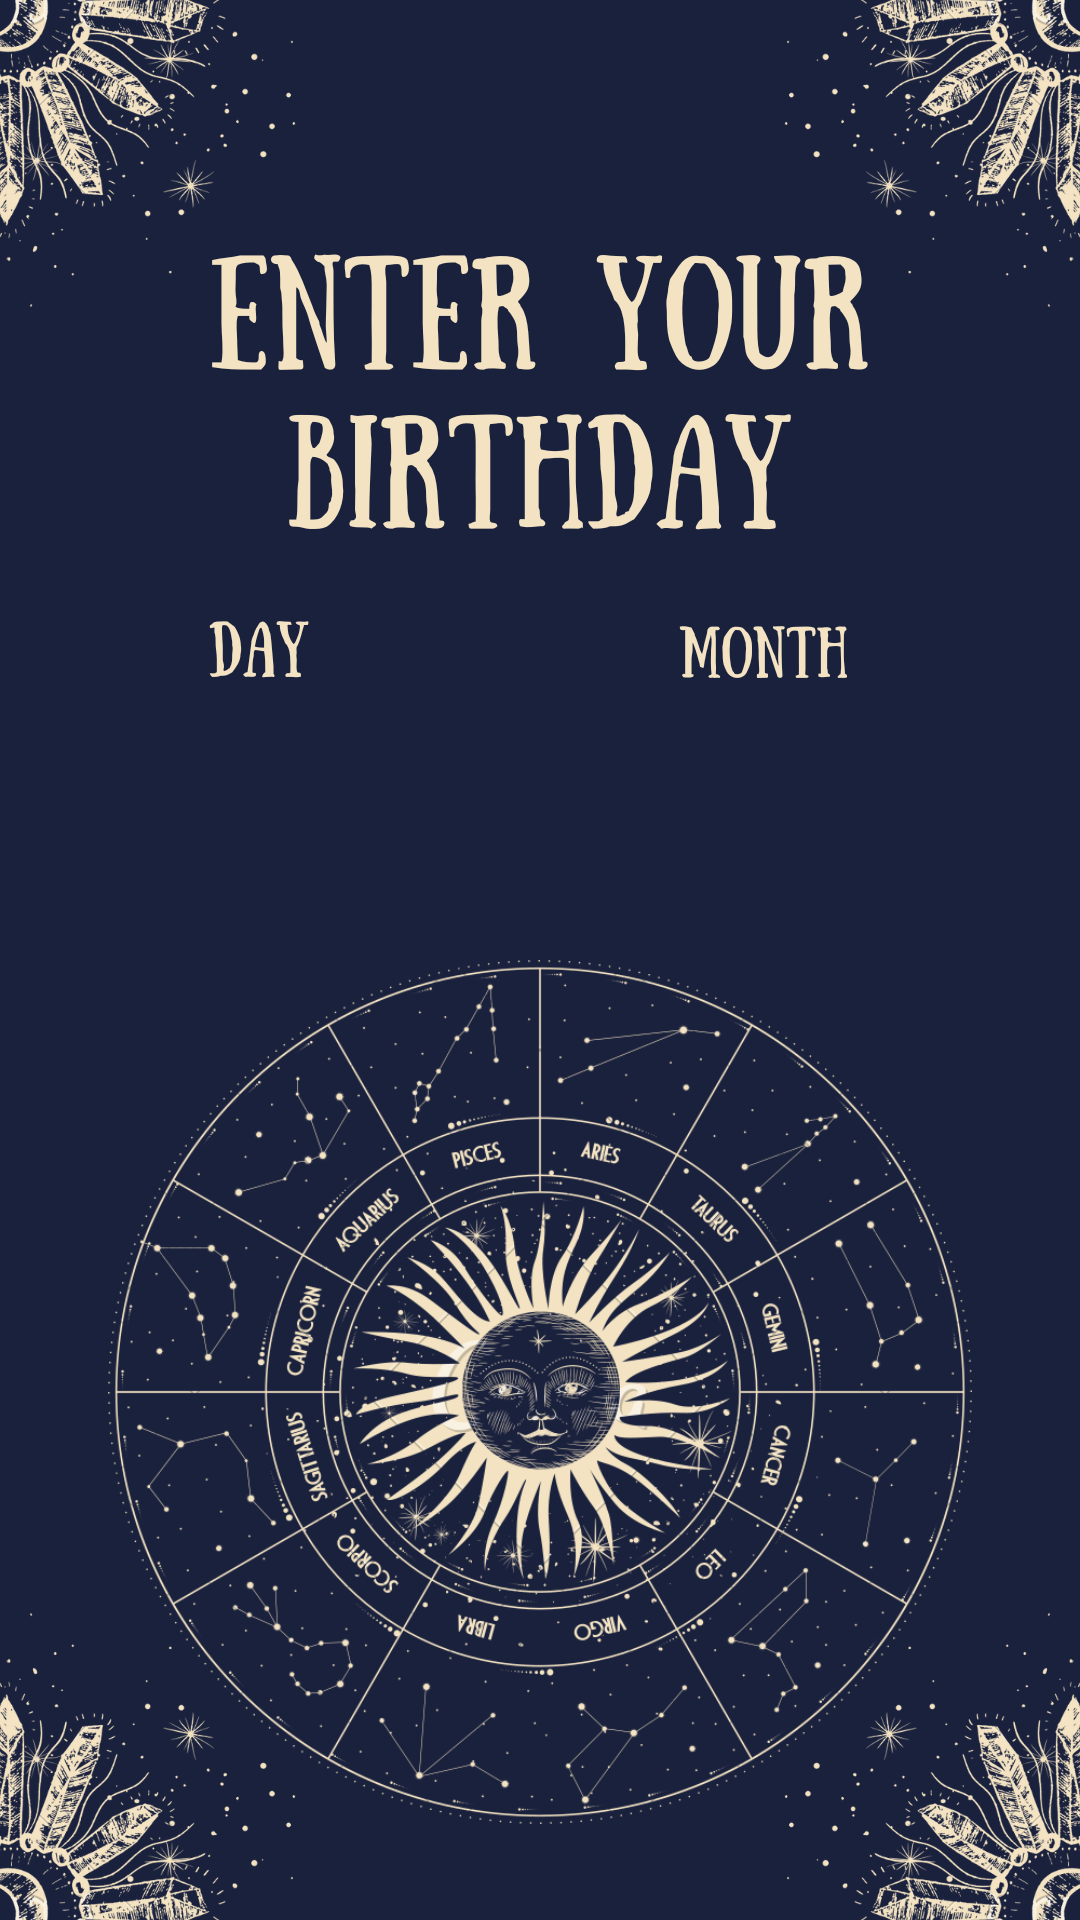
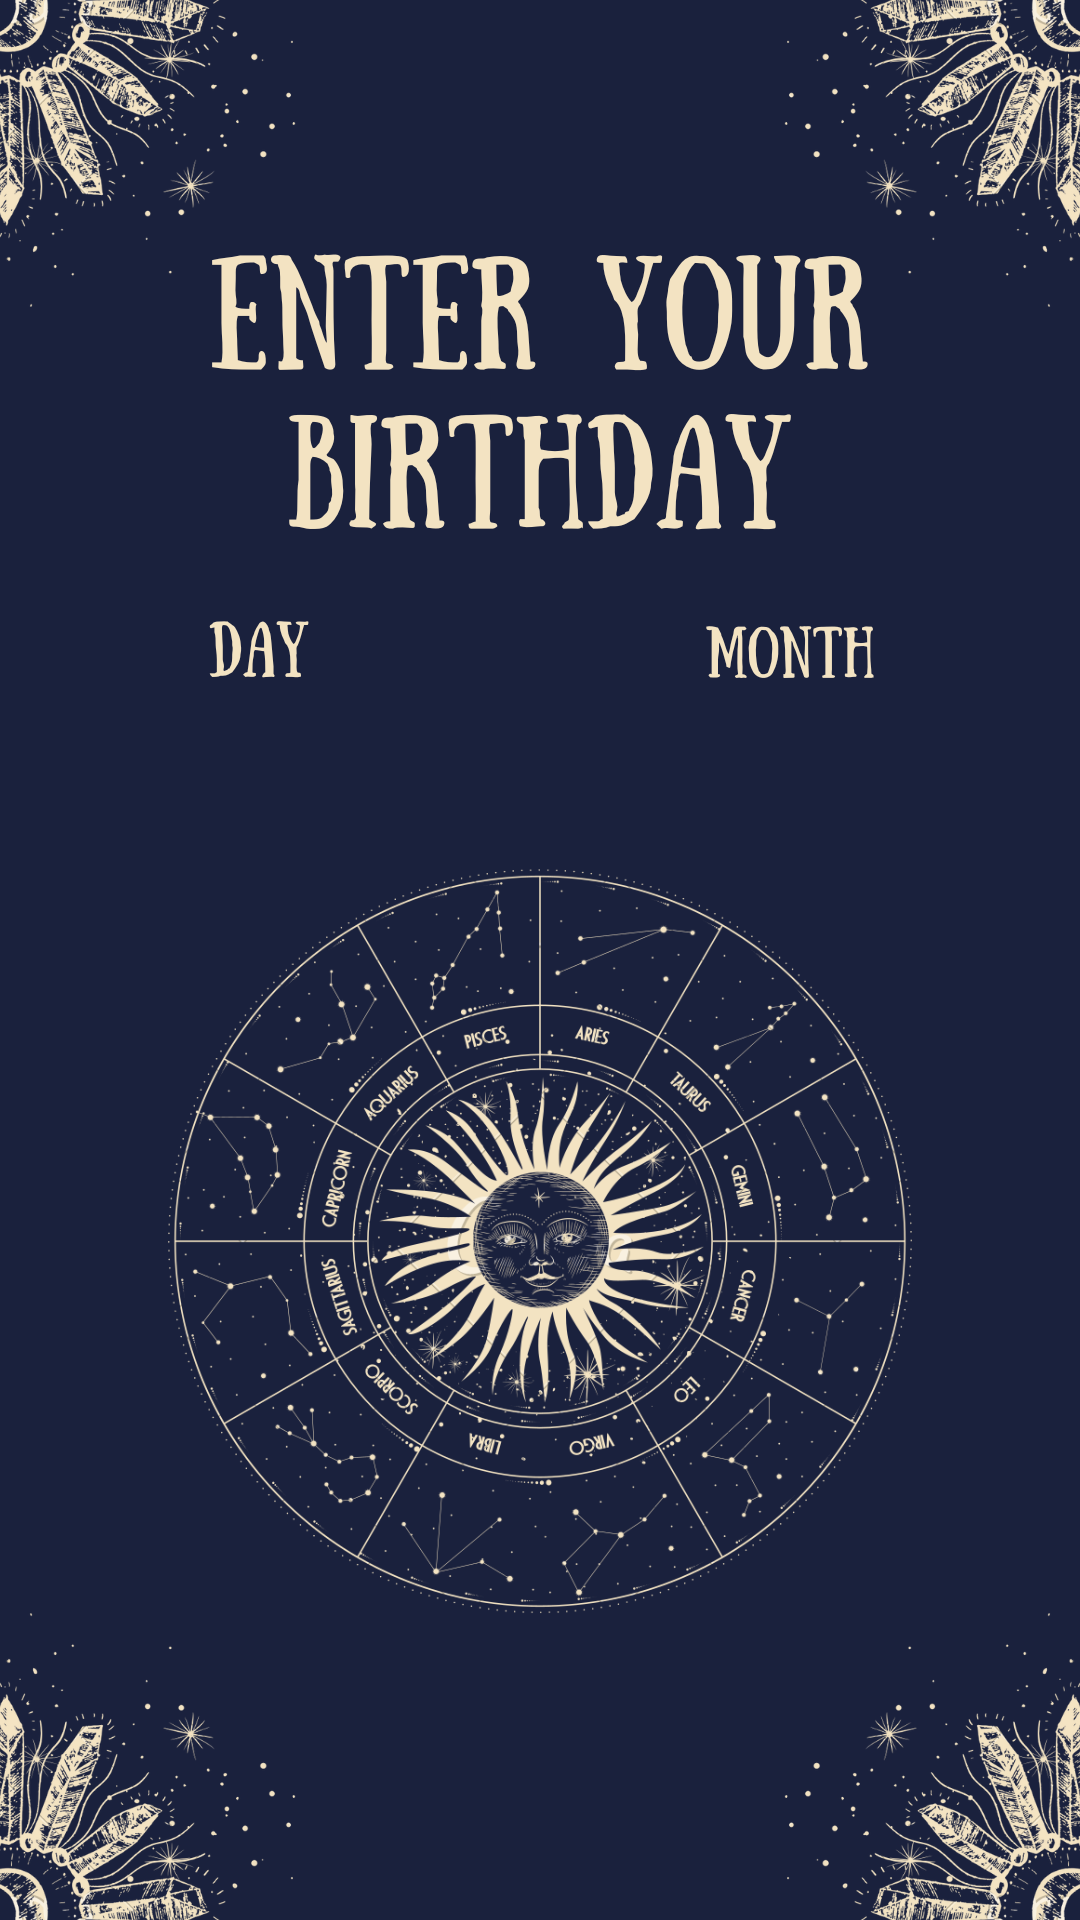
changed the coordinates of the dropdowns, added custom tkinter

diff --git a/zodiac.py b/zodiac.py
@@ -1,30 +1,29 @@
-import tkinter as tk
-from tkinter import ttk, messagebox
+import customtkinter as ctk
+from tkinter import messagebox
 from PIL import Image, ImageTk
 import random
 
 # Main application controller
 class ZodiacApp:
     def __init__(self, root):
-        self.root = root # Main window
-        self.root.title("Zodiac Horoscope") 
+        self.root = root  # Main window
+        self.root.title("Zodiac Horoscope")
         self.root.geometry("400x700")  # Fixed window size
-        self.root.resizable(False, False) # Prevent resizing
+        self.root.resizable(False, False)  # Prevent resizing
 
-        self._day = 1 # Default day
-        self._month = 1 #Starrt with Jan
-        self.current_screen = None # Initially no screen is shown
+        self._day = 1  # Default day
+        self._month = 1  # Start with January
+        self.current_screen = None  # Initially no screen is shown
 
         # Start with the title screen
         self.show_screen(TitleScreen)
 
     # Replaces current screen with a new one
-    # Using keyword arguments to pass additional parameters for zodiac signs, no need to hardcode
     def show_screen(self, screen_class, **kwargs):
         if self.current_screen:
             self.current_screen.destroy()
-        self.current_screen = screen_class(self, self.root, **kwargs) # Create new screen instance
-        self.current_screen.pack(fill="both", expand=True) # Expand to fill available space
+        self.current_screen = screen_class(self, self.root, **kwargs)  # Create new screen instance
+        self.current_screen.pack(fill="both", expand=True)  # Expand to fill available space
 
     # Store user's selected birthday
     def set_birthday(self, day, month):
@@ -40,24 +39,18 @@ class ZodiacApp:
         return ZodiacLogic.determine_sign(self._day, self._month)
 
 
-# Base class for all screens (inherits from tk.Frame for custom methods and styles)
-class ZodiacFrame(tk.Frame):
+# Base class for all screens (inherits from CTkFrame for custom methods and styles)
+class ZodiacFrame(ctk.CTkFrame):
     def __init__(self, app, root, *args, **kwargs):
-        super().__init__(root, *args, **kwargs) 
-        self.app = app # Main app instance
+        super().__init__(root, *args, **kwargs)
+        self.app = app  # Main app instance
 
     # Load and display a background image
     def load_background(self, path):
-        img = Image.open(path) #Using pillow to handle images
-        img = img.resize((400, 700), Image.Resampling.LANCZOS) #Resizing using LANCZOS filter for good quality
-        self.bg_image = ImageTk.PhotoImage(img) #Convert to PhotoImage for Tkinter
-        self.bg_label = tk.Label(self, image=self.bg_image) 
-        self.bg_label.place(x=0, y=0, relwidth=1, relheight=1) # Fill the entire frame with the image
-
-    # Adds a hover color change effect to buttons
-    def make_hoverable(self, button, color="#343a65", original="#1b1b3a"):
-        button.bind("<Enter>", lambda e: button.config(bg=color))
-        button.bind("<Leave>", lambda e: button.config(bg=original))
+        img = Image.open(path).resize((400, 700))  # Resize for fixed window
+        self.bg_image = ImageTk.PhotoImage(img)  # Convert to Tk-compatible image
+        self.bg_label = ctk.CTkLabel(self, image=self.bg_image, text="")
+        self.bg_label.place(x=0, y=0, relwidth=1, relheight=1)  # Fill frame
 
 
 # Title screen
@@ -66,76 +59,82 @@ class TitleScreen(ZodiacFrame):
         super().__init__(app, root)
         self.load_background("Title_screen.png")
 
+        font_style = ("Lucida Calligraphy", 16, "bold")
+
         # Tarot button (top)
-        tarot_btn = tk.Button(self,
-                              text="Tarot",
-                              font=("Georgia", 14, "bold"),
-                              bg="#1b1b3a", fg="white",
-                              activebackground="#2c2c54",
-                              relief="raised", bd=3,
-                              padx=10, pady=5,
-                              command=lambda: self.app.show_screen(TarotScreen))
-        self.make_hoverable(tarot_btn) #Inherited from ZodiacFrame
-        tarot_btn.place(x=200, y=540, anchor="center") # Positioning the button on center rather than top-left default
+        tarot_btn = ctk.CTkButton(self,
+                                  text="Tarot",
+                                  font=font_style,
+                                  width=200,
+                                  height=45,
+                                  fg_color="#2d1e45",
+                                  hover_color="#4a326f",
+                                  command=lambda: self.app.show_screen(TarotScreen))
+        tarot_btn.place(x=100, y=540)
 
         # Zodiac check button (below)
-        zodiac_btn = tk.Button(self,
-                               text="Check Your Sign",
-                               font=("Georgia", 14, "bold"),
-                               bg="#1b1b3a", fg="white",
-                               activebackground="#2c2c54",
-                               relief="raised", bd=3,
-                               padx=10, pady=5,
-                               command=lambda: self.app.show_screen(BirthdayScreen))
-        self.make_hoverable(zodiac_btn)
-        zodiac_btn.place(x=200, y=595, anchor="center")
+        zodiac_btn = ctk.CTkButton(self,
+                                   text="Check Your Sign",
+                                   font=font_style,
+                                   width=200,
+                                   height=45,
+                                   fg_color="#2d1e45",
+                                   hover_color="#4a326f",
+                                   command=lambda: self.app.show_screen(BirthdayScreen))
+        zodiac_btn.place(x=100, y=595)
 
 
-
+# Birthday input screen
 class BirthdayScreen(ZodiacFrame):
     def __init__(self, app, root):
         super().__init__(app, root)
         self.load_background("day.png")
 
-        self.day_var = tk.StringVar(value="1")
-        self.month_var = tk.StringVar(value="January")
+        self.day_var = ctk.StringVar(value="1")
+        self.month_var = ctk.StringVar(value="January")
 
-        # Style configuration for dropdowns
-        style = ttk.Style()
-        style.theme_use("vista") # For more modern look
-        style.configure("Custom.TCombobox",
-                        fieldbackground="#f7e6c4",
-                        background="#f7e6c4",
-                        foreground="#1b1b3a",
-                        font=("Georgia", 12),
-                        padding=5)
+        font_style = ("Lucida Calligraphy", 14)
 
         # Day dropdown menu
-        day_dd = ttk.Combobox(self, textvariable=self.day_var,
-                              state="readonly", width=5, style="Custom.TCombobox")
-        day_dd['values'] = list(range(1, 32))
-        day_dd.place(x=70, y=280)
+        day_dd = ctk.CTkComboBox(self,
+                                 variable=self.day_var,
+                                 values=[str(i) for i in range(1, 32)],
+                                 width=80,
+                                 font=font_style,
+                                 dropdown_font=font_style,
+                                 fg_color="#2d1e45",
+                                 border_color="#4a326f",
+                                 button_color="#392759",
+                                 text_color="white")
+        day_dd.place(x=75, y=270)
 
         # Month dropdown menu
-        month_dd = ttk.Combobox(self, textvariable=self.month_var,
-                                state="readonly", width=10, style="Custom.TCombobox")
-        month_dd['values'] = [
+        months = [
             "January", "February", "March", "April", "May", "June",
             "July", "August", "September", "October", "November", "December"
         ]
-        month_dd.place(x=260, y=280)
+        month_dd = ctk.CTkComboBox(self,
+                                   variable=self.month_var,
+                                   values=months,
+                                   width=130,
+                                   font=font_style,
+                                   dropdown_font=font_style,
+                                   fg_color="#2d1e45",
+                                   border_color="#4a326f",
+                                   button_color="#392759",
+                                   text_color="white")
+        month_dd.place(x=259, y=270)
 
         # Submit button to find zodiac sign
-        submit_btn = tk.Button(self,
-                               text="Find Your Sign",
-                               font=("Georgia", 14, "bold"),
-                               bg="#1b1b3a", fg="white",
-                               activebackground="#2c2c54",
-                               relief="raised", bd=3,
-                               padx=10, pady=5,
-                               command=self.submit)
-        self.make_hoverable(submit_btn)
-        submit_btn.place(x=200, y=595, anchor="center")
+        submit_btn = ctk.CTkButton(self,
+                                   text="Find Your Sign",
+                                   font=("Lucida Calligraphy", 16, "bold"),
+                                   width=220,
+                                   height=45,
+                                   fg_color="#2d1e45",
+                                   hover_color="#4a326f",
+                                   command=self.submit)
+        submit_btn.place(x=90, y=595)
 
     # Extract birthday and show zodiac result
     def submit(self):
@@ -157,7 +156,7 @@ class BirthdayScreen(ZodiacFrame):
             messagebox.showerror("Error", f"Could not determine zodiac: {str(e)}")
 
 
-# Screen that shows the zodiac result
+# Zodiac result screen
 class ResultScreen(ZodiacFrame):
     def __init__(self, app, root, sign):
         super().__init__(app, root)
@@ -169,20 +168,19 @@ class ResultScreen(ZodiacFrame):
             self.app.show_screen(TitleScreen)
             return
 
-        # Back button to return to birthday input
-        back_btn = tk.Button(self,
-                             text="Back",
-                             font=("Georgia", 10),
-                             bg="#1b1b3a", fg="white",
-                             activebackground="#2c2c54",
-                             relief="raised", bd=1,
-                             padx=4, pady=2,
-                             command=lambda: self.app.show_screen(TitleScreen))
-        self.make_hoverable(back_btn)
-        back_btn.place(x=200, y=670, anchor="center")
+        # Back button to return to title screen
+        back_btn = ctk.CTkButton(self,
+                                 text="Back",
+                                 font=("Lucida Calligraphy", 12),
+                                 width=65,
+                                 height=24,
+                                 fg_color="#2d1e45",
+                                 hover_color="#4a326f",
+                                 command=lambda: self.app.show_screen(TitleScreen))
+        back_btn.place(x=160, y=660)
 
 
-# Tarot card screen that displays a random card
+# Tarot screen showing a random image
 class TarotScreen(ZodiacFrame):
     def __init__(self, app, root):
         super().__init__(app, root)
@@ -198,25 +196,24 @@ class TarotScreen(ZodiacFrame):
             return
 
         # Back button to return to title screen
-        back_btn = tk.Button(self,
-                             text="Back",
-                             font=("Georgia", 10),
-                             bg="#1b1b3a", fg="white",
-                             activebackground="#2c2c54",
-                             relief="raised", bd=1,
-                             padx=4, pady=2,
-                             command=lambda: self.app.show_screen(TitleScreen))
-        self.make_hoverable(back_btn)
-        back_btn.place(x=200, y=670, anchor="center")
+        back_btn = ctk.CTkButton(self,
+                                 text="Back",
+                                 font=("Lucida Calligraphy", 12),
+                                 width=65,
+                                 height=24,
+                                 fg_color="#2d1e45",
+                                 hover_color="#4a326f",
+                                 command=lambda: self.app.show_screen(TitleScreen))
+        back_btn.place(x=160, y=660)
 
 
-# Logic for determining zodiac sign based on birthday
+# Logic to determine zodiac sign based on birthday
 class ZodiacLogic:
     @staticmethod
     def determine_sign(day, month):
         # Each zodiac sign has a start and end date (day, month)
         signs = [
-            ("Capricorn", (22, 12), (19, 1)),
+            ("Capricorn", (1, 1), (19, 1)),
             ("Aquarius", (20, 1), (18, 2)),
             ("Pisces", (19, 2), (20, 3)),
             ("Aries", (21, 3), (19, 4)),
@@ -228,7 +225,7 @@ class ZodiacLogic:
             ("Libra", (23, 9), (22, 10)),
             ("Scorpio", (23, 10), (21, 11)),
             ("Sagittarius", (22, 11), (21, 12)),
-            ("Capricorn", (22, 12), (31, 12)),  # End of year wraparound
+            ("Capricorn", (22, 12), (31, 12))  # End of year wraparound
         ]
 
         # Check if date falls within a zodiac range
@@ -239,8 +236,8 @@ class ZodiacLogic:
         return None
 
 
-# Starts the app if the script is run directly
+# Run the app
 if __name__ == "__main__":
-    root = tk.Tk() # Create the main window
+    root = ctk.CTk()  # Create main window
     app = ZodiacApp(root)
     root.mainloop()
